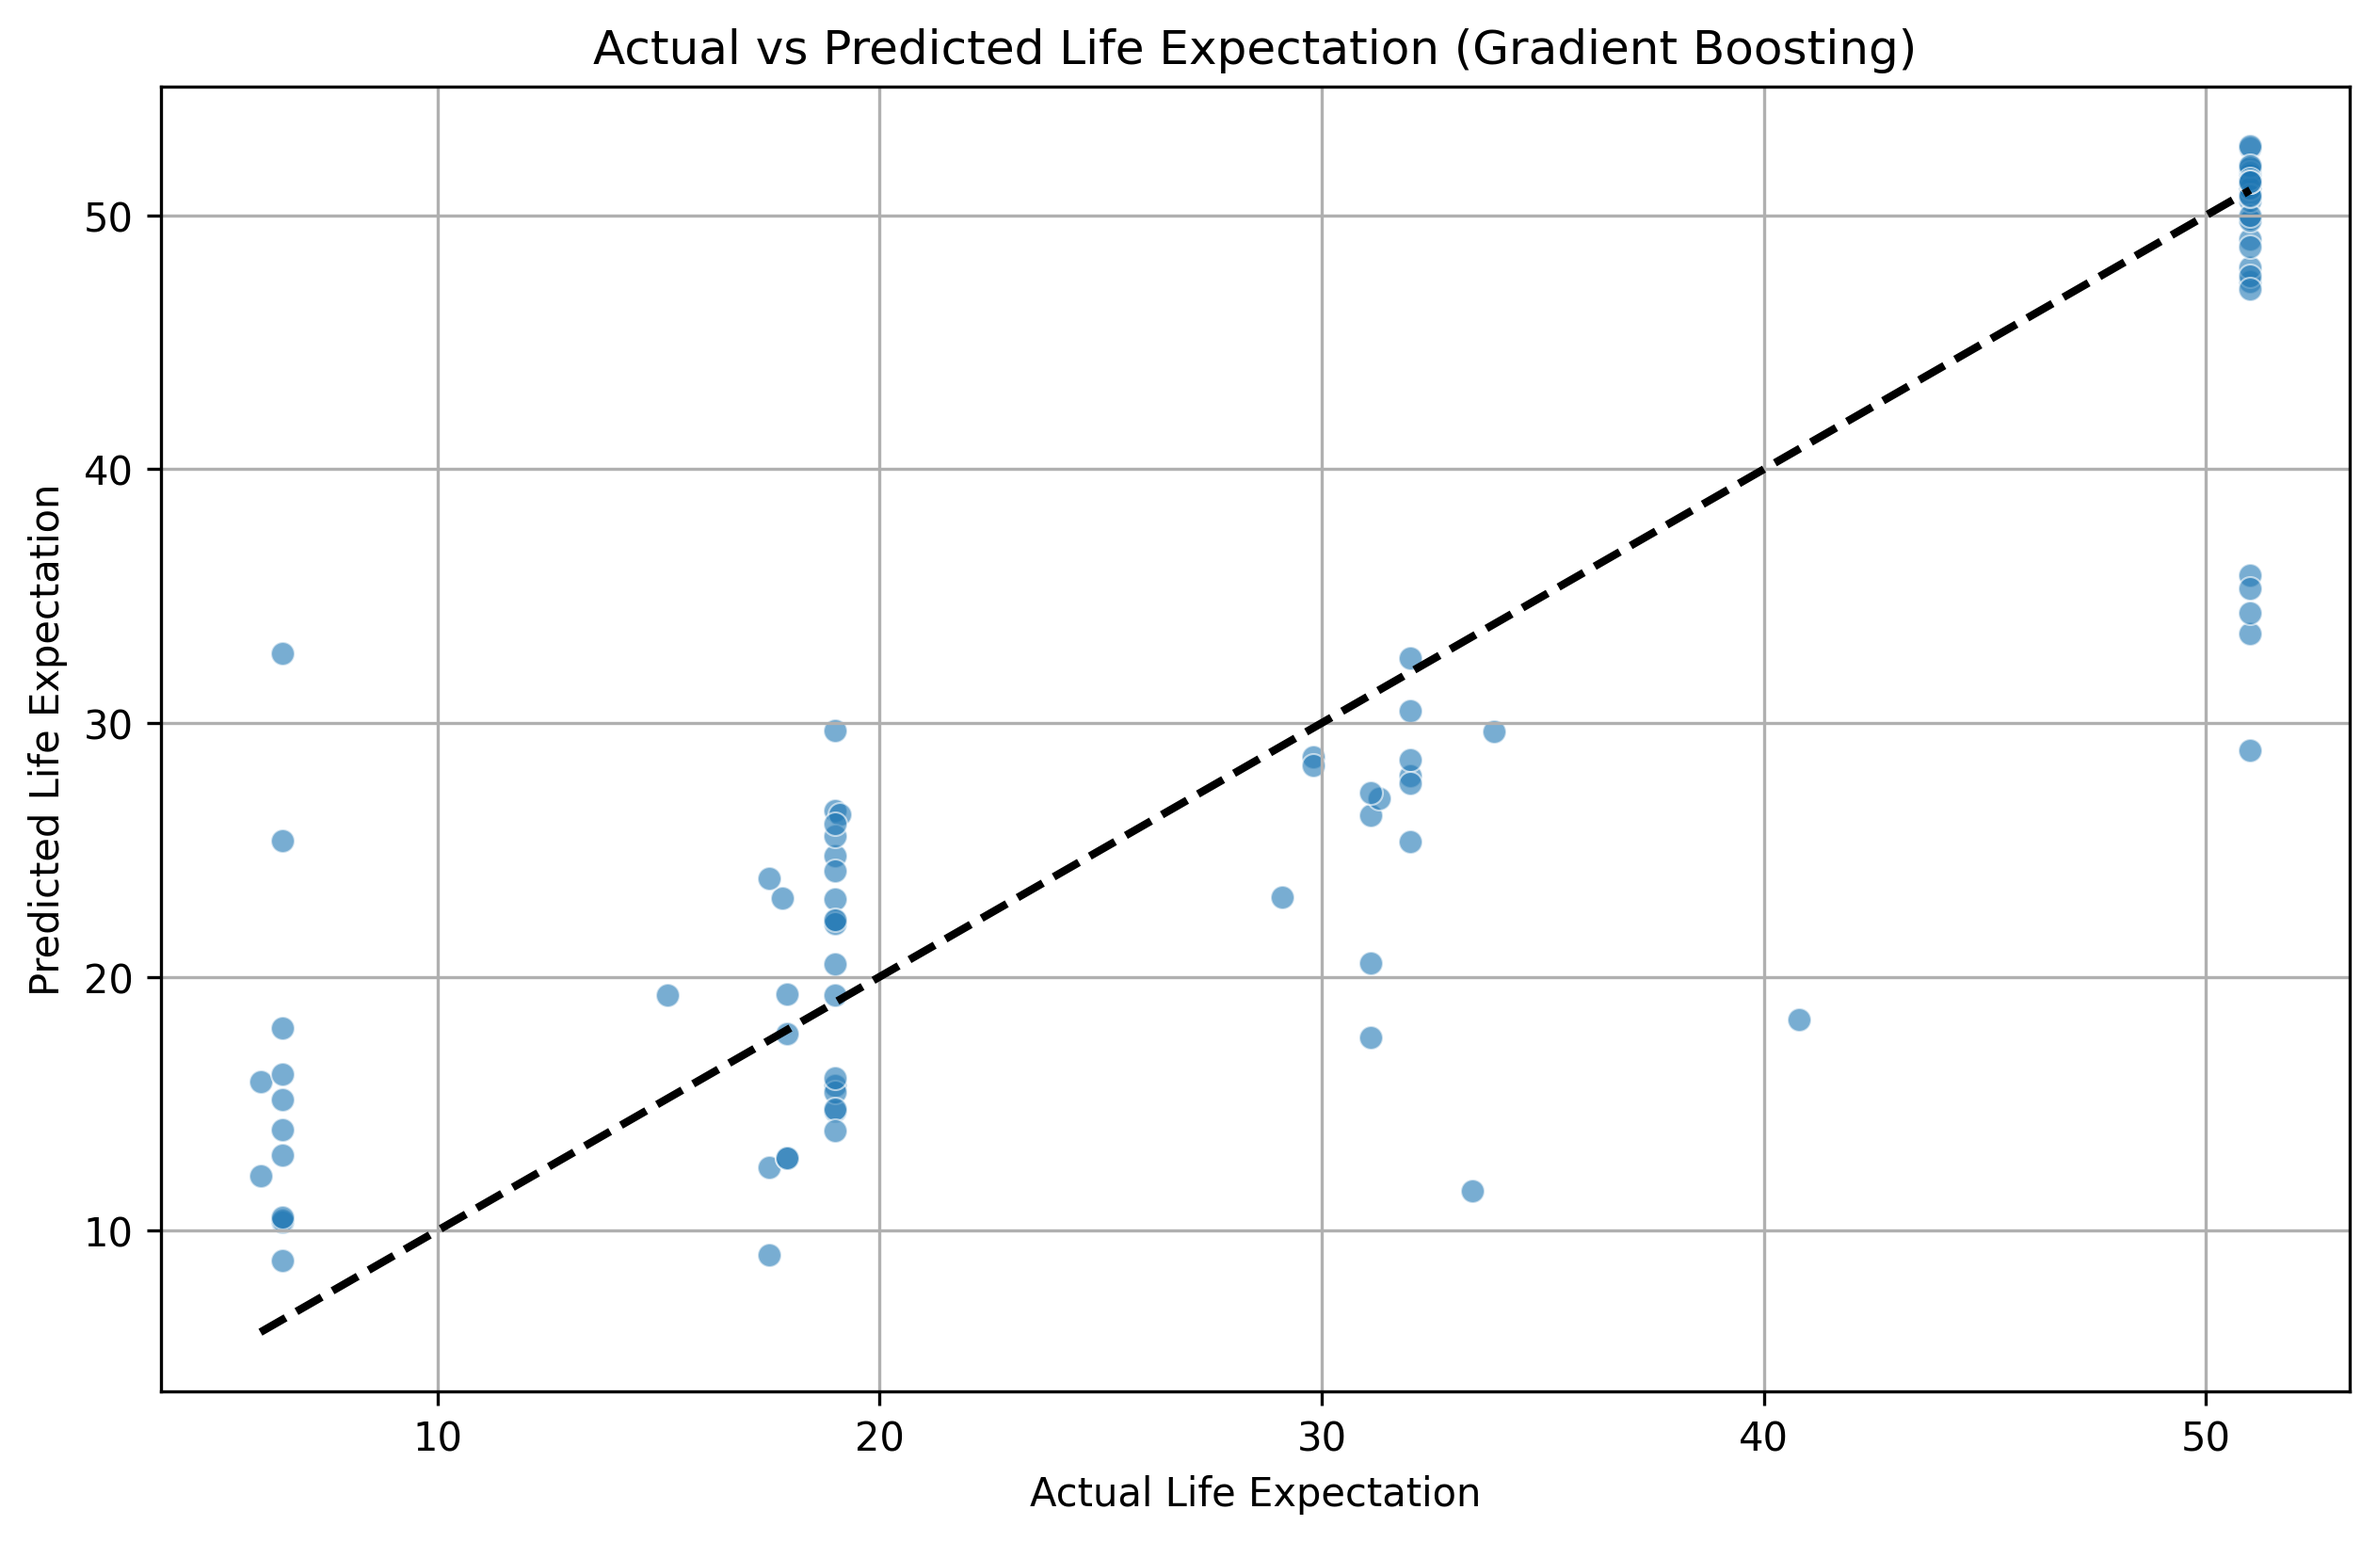
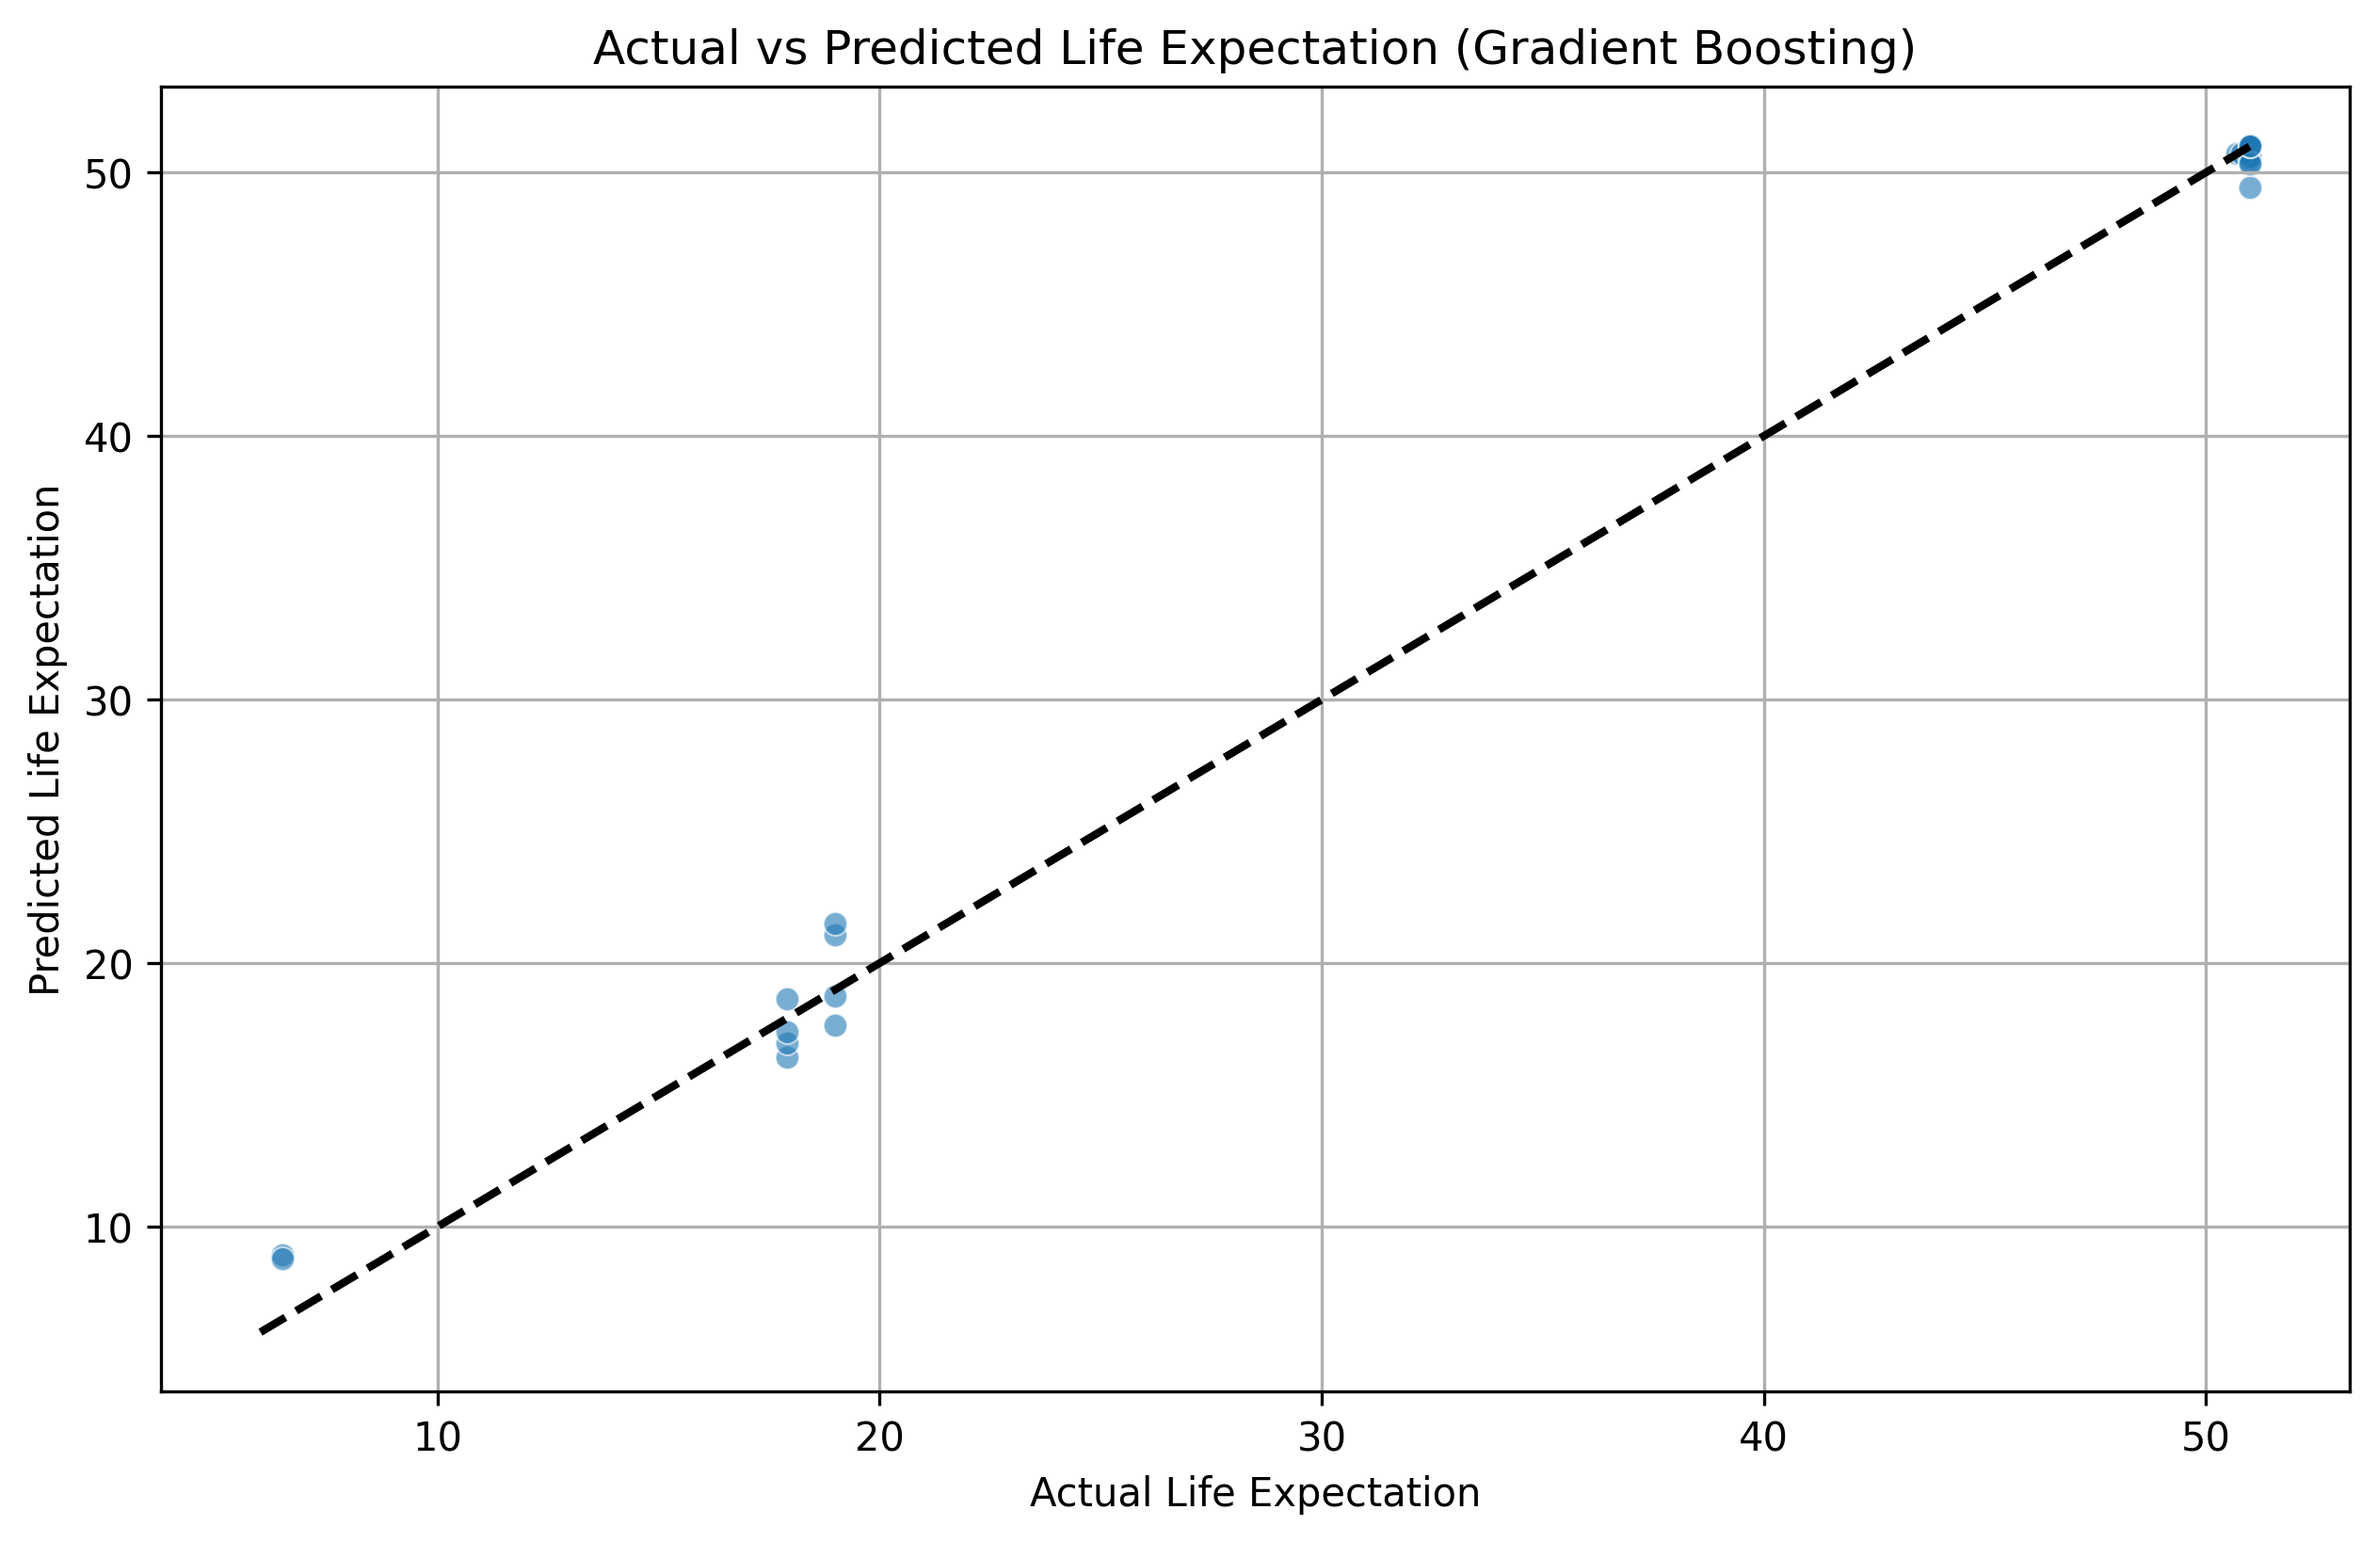
project

diff --git a/Project_Gradient Boosting Regressor.py b/Project_Gradient Boosting Regressor.py
@@ -4,7 +4,7 @@ import seaborn as sns
 from sklearn.ensemble import GradientBoostingRegressor
 from sklearn.metrics import mean_absolute_error, mean_squared_error, r2_score
 from sklearn.model_selection import train_test_split
-
+import numpy as np
 # 데이터 로드
 data = pd.read_csv('./data/4.power_transform.csv')
 
@@ -42,15 +42,20 @@ y_pred_gb = model_gb.predict(X_test)
 # 성능 평가
 mae_gb = mean_absolute_error(Y_test, y_pred_gb)
 mse_gb = mean_squared_error(Y_test, y_pred_gb)
+rmse_gb = np.sqrt(mse_gb)
 r2_gb = r2_score(Y_test, y_pred_gb)
 
 print(f'Gradient Boosting MAE: {mae_gb:.2f}')
 print(f'Gradient Boosting MSE: {mse_gb:.2f}')
+print(f'Gradient Boosting MSE: {rmse_gb:.2f}')
 print(f'Gradient Boosting R^2: {r2_gb:.2f}')
 
 # Density Plot of Actual vs Predicted Life Expectation 시각화
 plt.figure(figsize=(10, 6))
-plt.scatter(Y_test, y_pred_gb, alpha=0.6, edgecolors='w', linewidth=0.5)
+data = pd.read_csv("./results/y_pred.csv")
+re_ypred = data['Life expectation_pred']
+re_ytest = data['Life expectation_test']
+plt.scatter(re_ytest, re_ypred, alpha=0.6, edgecolors='w', linewidth=0.5)
 plt.plot([Y_test.min(), Y_test.max()], [Y_test.min(), Y_test.max()], 'k--', lw=2)  # 45도 기준선
 plt.xlabel('Actual Life Expectation')
 plt.ylabel('Predicted Life Expectation')

diff --git a/Project_Random Forest Regressor.py b/Project_Random Forest Regressor.py
@@ -48,15 +48,20 @@ y_pred_rf = model_rf.predict(X_test)
 # 성능 평가
 mae_rf = mean_absolute_error(Y_test, y_pred_rf)
 mse_rf = mean_squared_error(Y_test, y_pred_rf)
+rmse_rf = np.sqrt(mse_rf)
 r2_rf = r2_score(Y_test, y_pred_rf)
 
 print(f'Random Forest MAE: {mae_rf:.2f}')
 print(f'Random Forest MSE: {mse_rf:.2f}')
+print(f'Random Forest RMSE: {rmse_rf:.2f}')
 print(f'Random Forest R^2: {r2_rf:.2f}')
 
 # Density Plot of Actual vs Predicted Life Expectation 시각화
 plt.figure(figsize=(10, 6))
-plt.scatter(Y_test, y_pred_rf, alpha=0.6, edgecolors='w', linewidth=0.5)
+data = pd.read_csv("./results/y_pred.csv")
+re_ypred = data['Life expectation_pred']
+re_ytest = data['Life expectation_test']
+plt.scatter(re_ytest, re_ypred, alpha=0.6, edgecolors='w', linewidth=0.5)
 plt.plot([Y_test.min(), Y_test.max()], [Y_test.min(), Y_test.max()], 'k--', lw=2)  # 45도 기준선
 plt.xlabel('Actual Life Expectation')
 plt.ylabel('Predicted Life Expectation')

diff --git a/머신러닝 모델 정확도 비교.py b/머신러닝 모델 정확도 비교.py
@@ -50,3 +50,4 @@ for model_name, model in models.items():
     print(f'{model_name} MAE: {np.mean(mae_scores):.2f}')
     print(f'{model_name} MSE: {np.mean(mse_scores):.2f}')
     print(f'{model_name} R^2: {np.mean(r2_scores):.2f}\n')
+

diff --git a/README.md b/README.md
@@ -1,2 +1,13 @@
-# 20240821
- 
+# 가설 변압기 수명 예측 프로그램
+
+1. 데이터 로드(4.power_transform)
+
+2. 상관관계 분석
+- Life expectation과 다른 변수들 간의 상관계수 행렬 계산
+- 더 나은 시각화를 위해 Life expectation과의 상관계수만 포함된 서브셋 생성
+- 상관
+3. 교차 검증 및 적합한 머신러닝 선정
+
+4. Random forest, Gradient Boosting 을 사용하여 모델 생성 및 훈련
+
+5. 예측 모델 시각화
